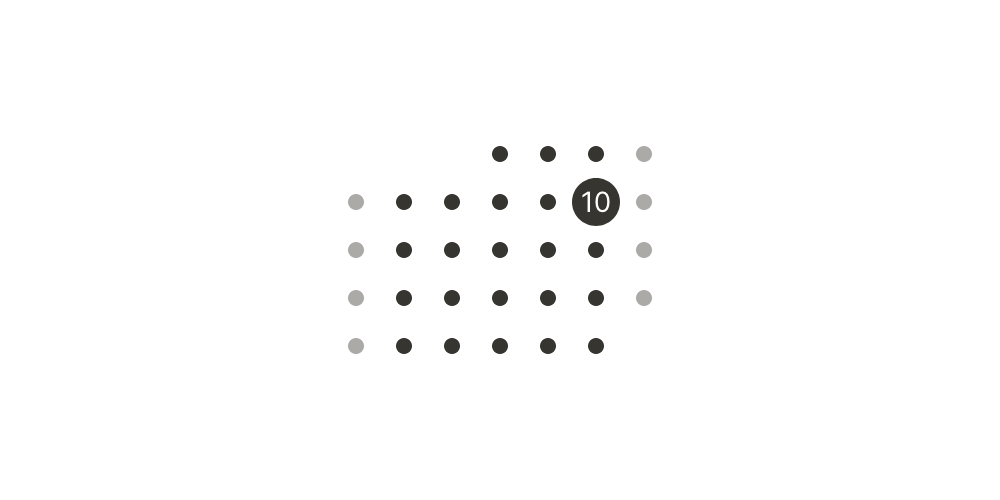
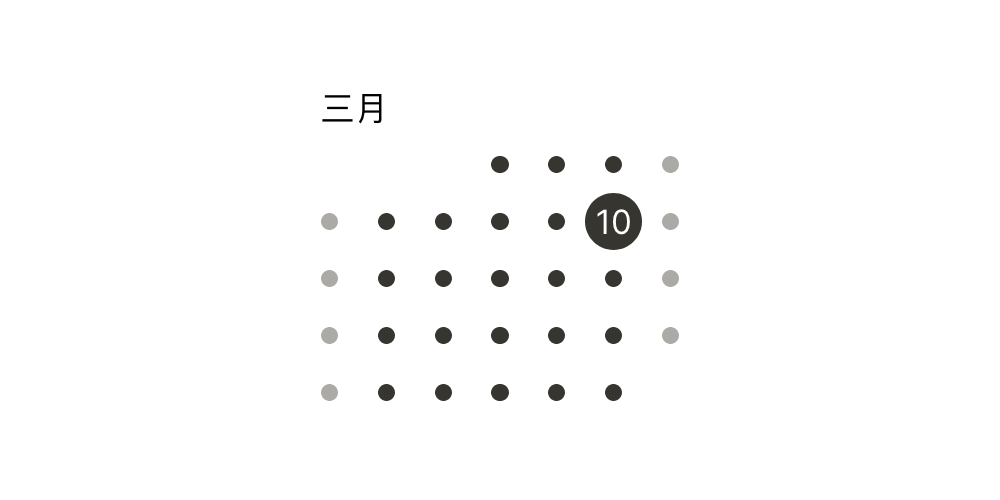
chore(mini-calendar): update og image

diff --git a/widgets/mini-calendar/app.vue b/widgets/mini-calendar/app.vue
@@ -25,7 +25,7 @@ const props = defineProps({
 
 // Date
 
-let now = $ref(import.meta.env.PROD ? new Date() : new Date(2023, 2, 1))
+let now = $ref(import.meta.env.PROD ? new Date() : new Date(2023, 2, 10))
 const nowMonth = $computed(() => now.getMonth() + 1)
 const nowDate = $computed(() => now.getDate())
 const firstWeekday = $computed(() => new Date(now.getFullYear(), now.getMonth(), 1).getDay())
